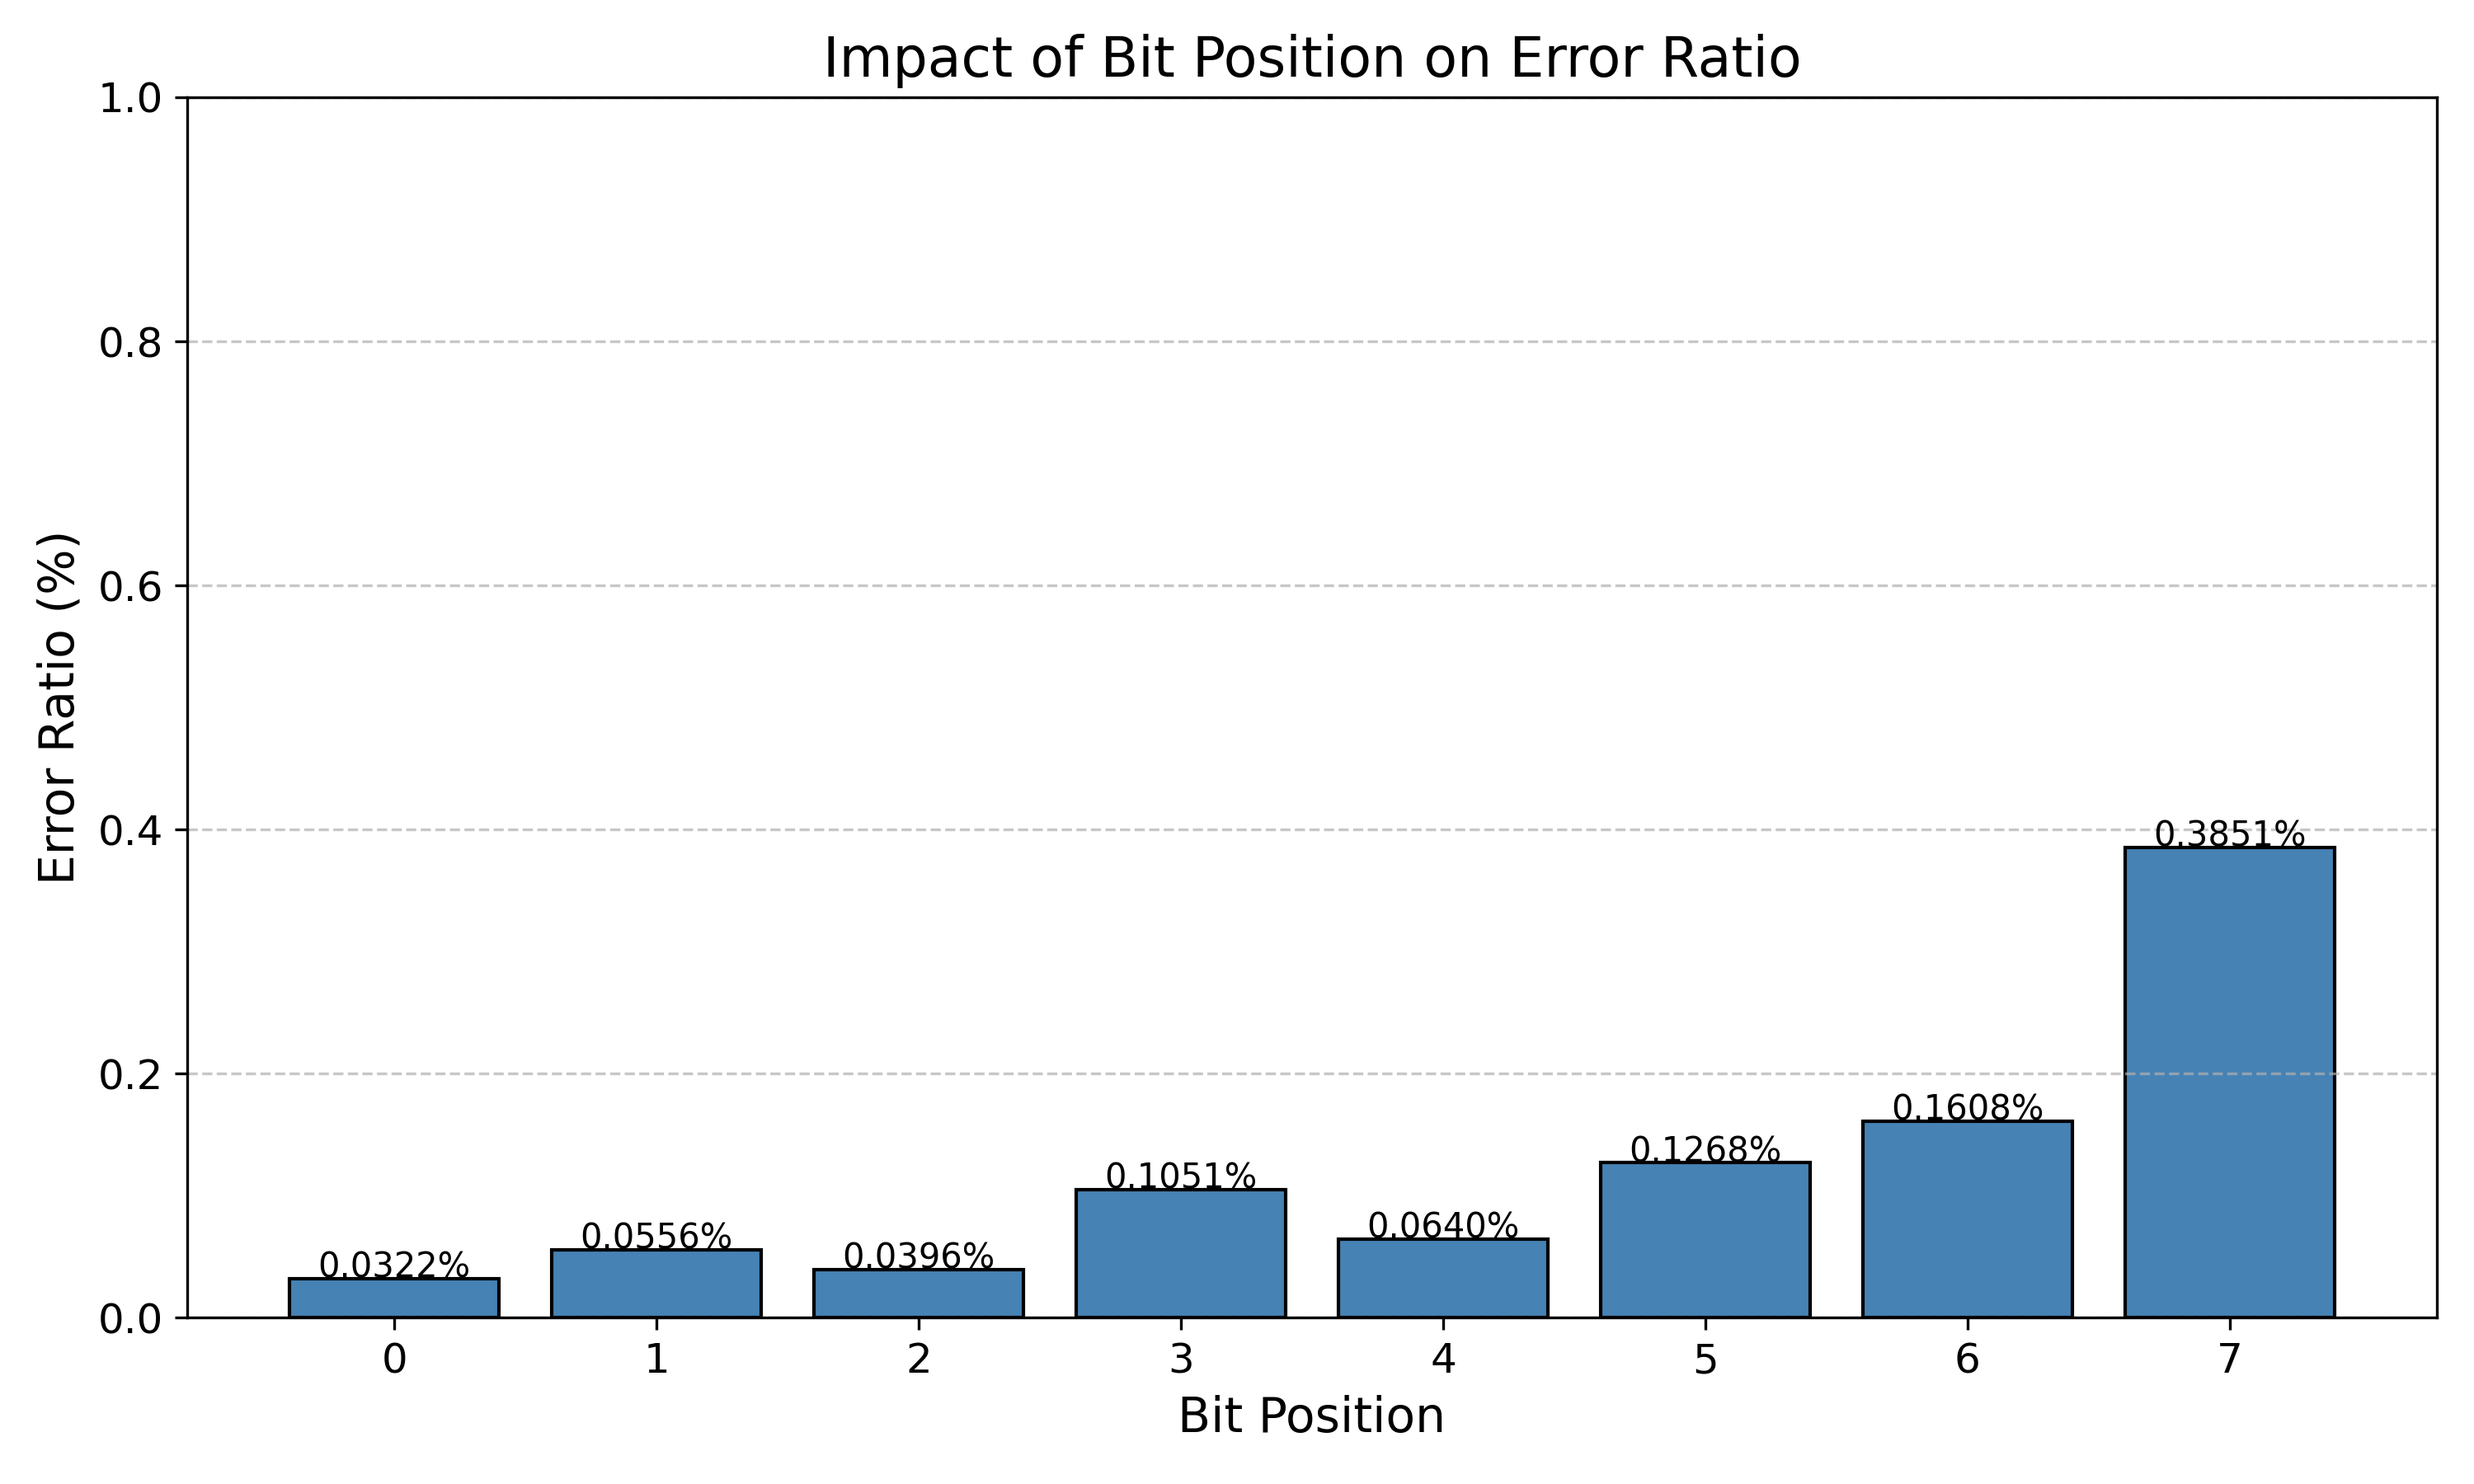
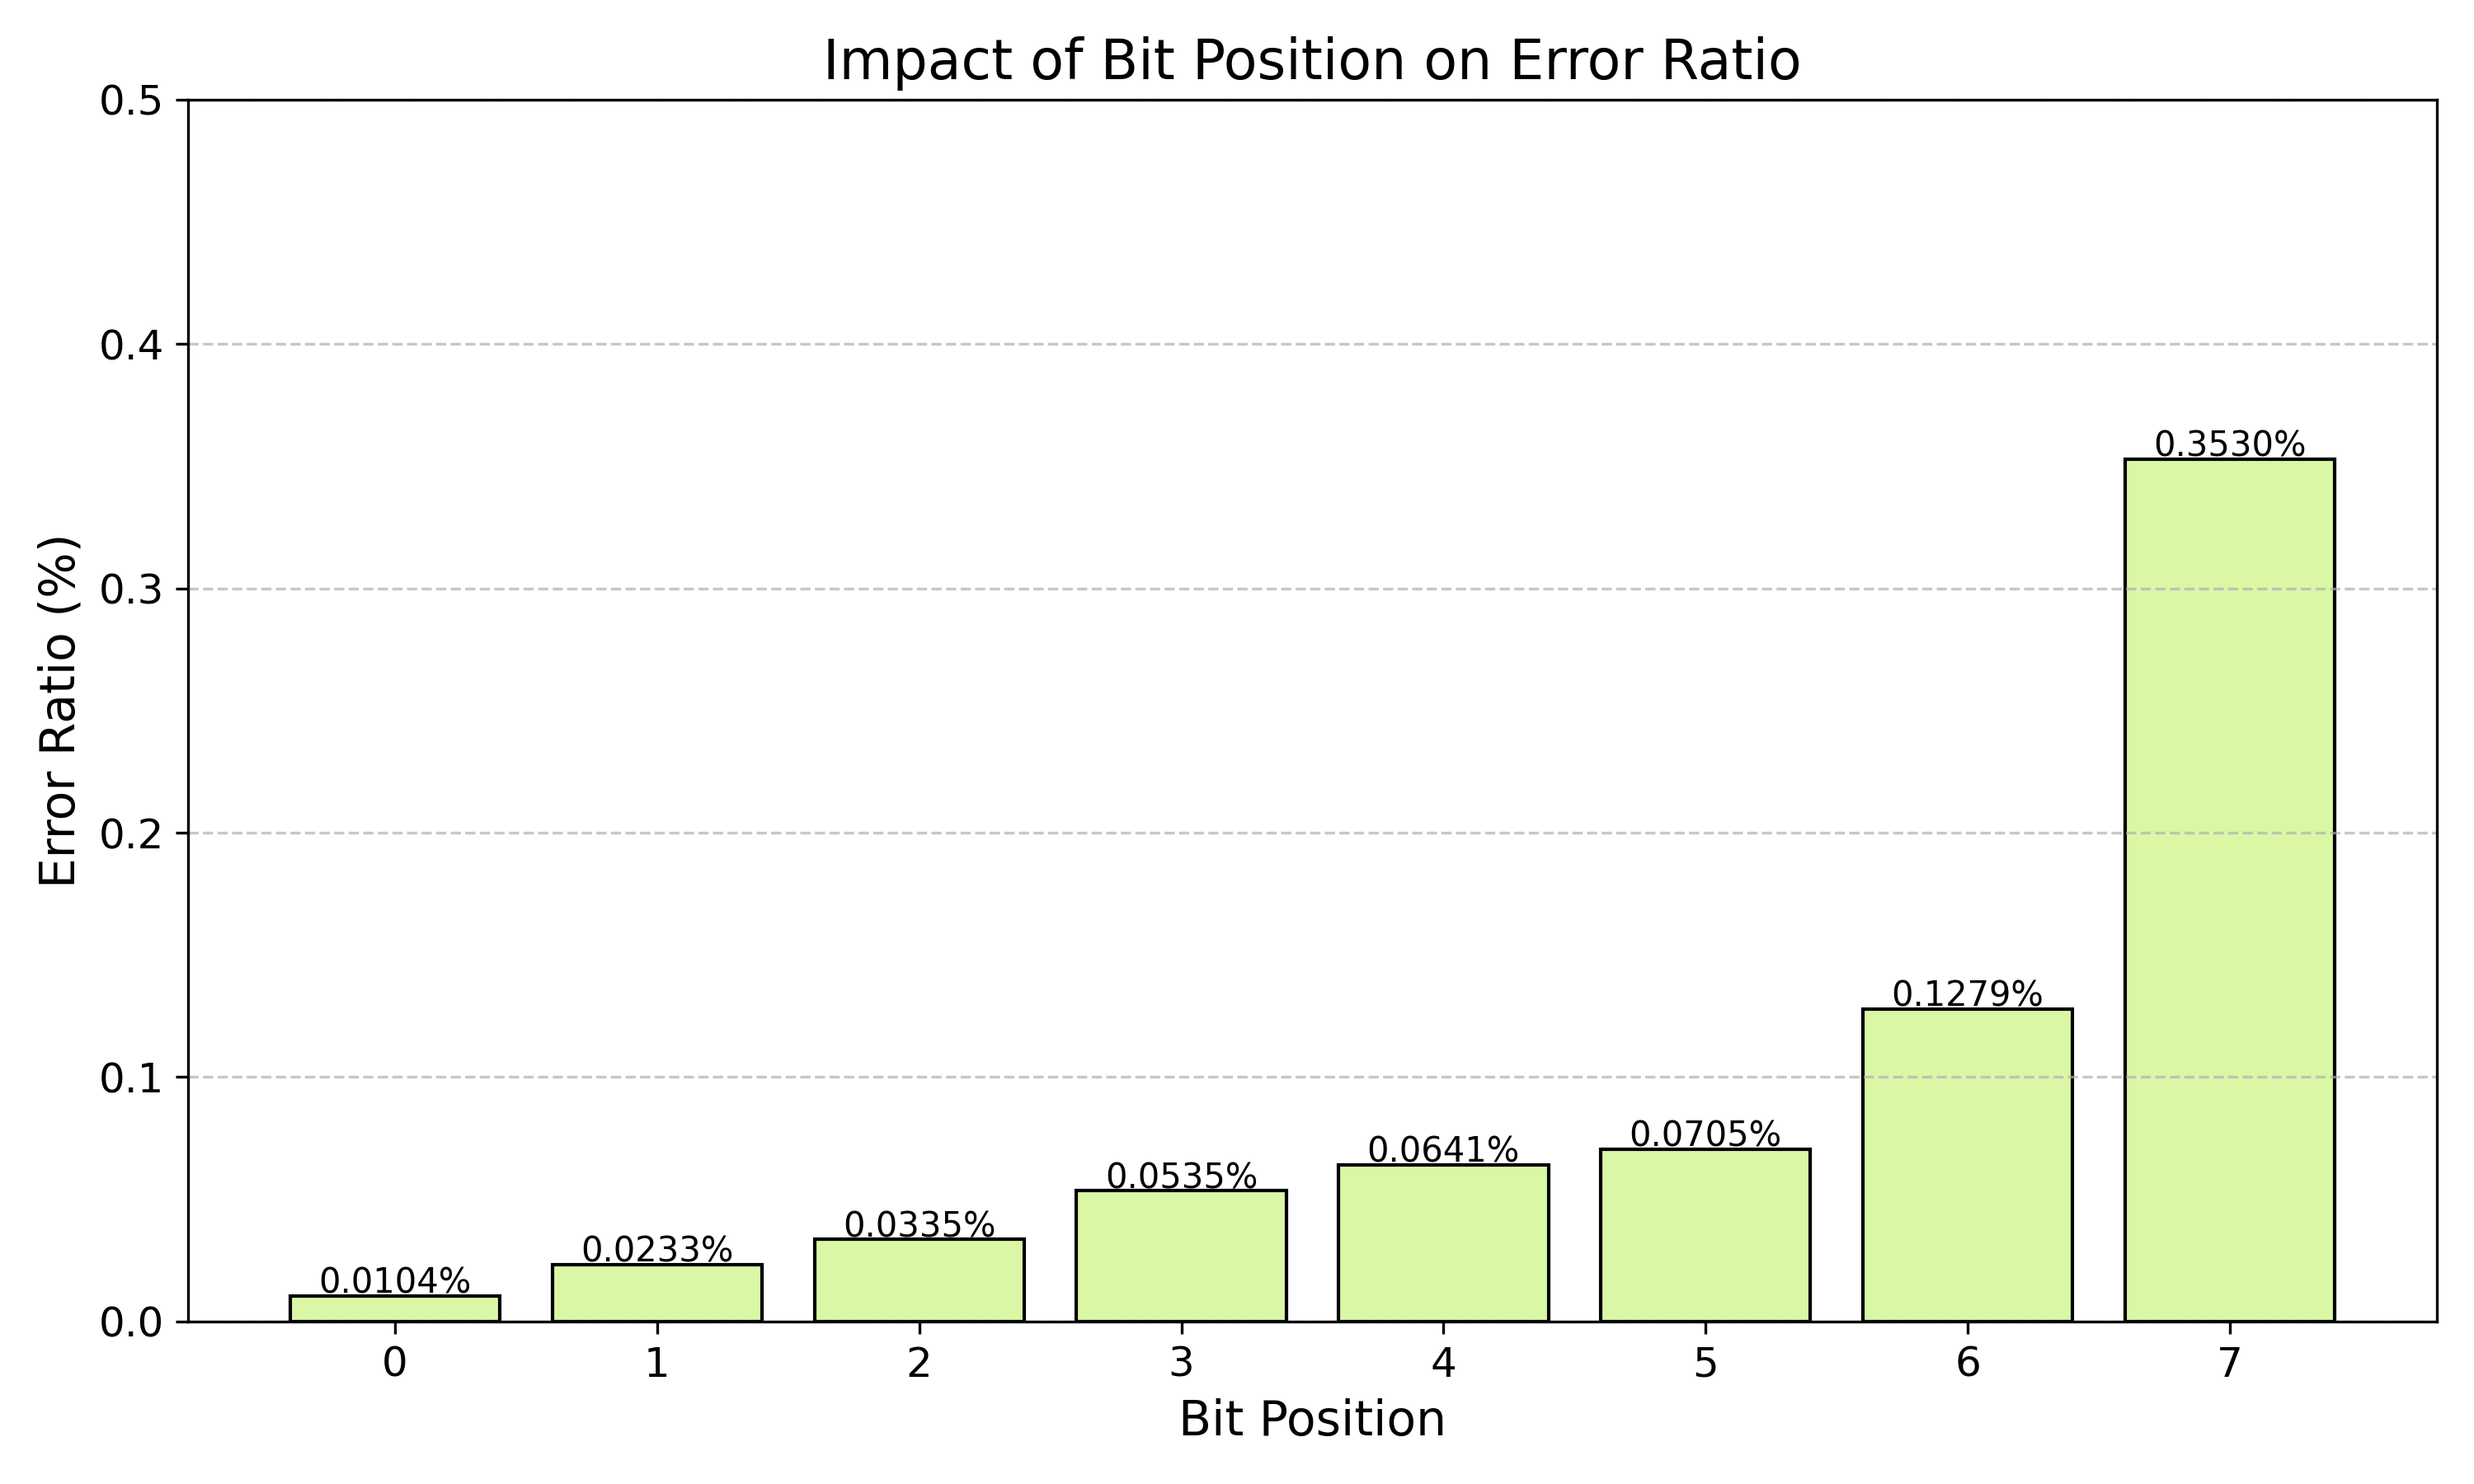
Updates LOOOL

diff --git a/dir.py b/dir.py
@@ -1,0 +1,36 @@
+import pandas as pd
+
+# Load the fault injection results
+df_rand = pd.read_csv("results.csv")
+
+# Group by flip direction and calculate samples, errors, and error ratio
+flip_direction_table = (
+    df_rand.groupby(["original_bit", "flipped_bit"])
+    .agg(
+        samples=("original_output", "count"),  # Total bit flips for each direction
+        errors=(
+            "original_output",
+            lambda x: (x != df_rand.loc[x.index, "flipped_output"]).sum(),
+        ),  # Total errors for each direction
+    )
+    .reset_index()
+)
+
+# Create a new column for flip direction as a string (e.g., "0 to 1", "1 to 0")
+flip_direction_table["flip_direction"] = (
+    flip_direction_table["original_bit"].astype(str)
+    + " to "
+    + flip_direction_table["flipped_bit"].astype(str)
+)
+
+# Calculate error ratio as a percentage and format
+flip_direction_table["error_ratio"] = (
+    (flip_direction_table["errors"] / flip_direction_table["samples"]) * 100
+).round(4).astype(str) + "%"
+
+# Drop the original_bit and flipped_bit columns for cleaner display
+flip_direction_table = flip_direction_table[["flip_direction", "samples", "errors", "error_ratio"]]
+
+# Save or display the results
+flip_direction_table.to_csv("flip_direction_table.csv", index=False)
+print("Flip direction table saved as 'flip_direction_table.csv'.")

diff --git a/chart.py b/chart.py
@@ -2,17 +2,13 @@ import matplotlib.pyplot as plt
 import pandas as pd
 
 # Data
-data = {
-    "bit_position": [0, 1, 2, 3, 4, 5, 6, 7],
-    "samples": [12410, 12586, 12622, 12375, 12492, 12617, 12435, 12463],
-    "errors": [4, 7, 5, 13, 8, 16, 20, 48],
-    "error_ratio": [0.0322, 0.0556, 0.0396, 0.1051, 0.0640, 0.1268, 0.1608, 0.3851],
-}
-df = pd.DataFrame(data)
+df = pd.read_csv('bit_position_impact.csv')
+# Convert error_ratio from percentage string to float
+df['error_ratio'] = df['error_ratio'].str.rstrip('%').astype(float)
 
 # Plot
 plt.figure(figsize=(10, 6))
-bars = plt.bar(df["bit_position"], df["error_ratio"], color="steelblue", edgecolor="black")
+bars = plt.bar(df["bit_position"], df["error_ratio"], color="#DAF7A6", edgecolor="black")
 
 # Add value annotations on bars
 for bar, ratio in zip(bars, df["error_ratio"]):
@@ -30,7 +26,7 @@ plt.ylabel("Error Ratio (%)", fontsize=14)
 plt.title("Impact of Bit Position on Error Ratio", fontsize=16)
 plt.xticks(df["bit_position"], fontsize=12)
 plt.yticks(fontsize=12)
-plt.ylim(0, 1.0)  # Set y-axis maximum to 1% for consistency
+plt.ylim(0, 0.5)  # Set y-axis maximum to 1% for consistency
 plt.grid(axis="y", linestyle="--", alpha=0.7)
 plt.tight_layout()
 
